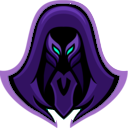
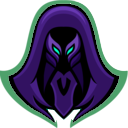
team

Changed region(s): [[0.0, 0.0, 1.0, 1.0]]

diff --git a/src/TableColor.scss b/src/TableColor.scss
@@ -73,7 +73,7 @@
     color: #bc81cb;
 }
 .supporter-color{
-   color: #c390f7;
+   color: #38c0a0;
 }
 .trial-supporter-color{
     color: #dfc5f8;
